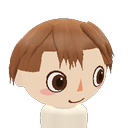
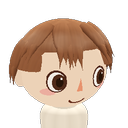
Raise character mesh density: 12,000 triangles on detail 1, 20,000 on high
- Head, hair shell and hair locks use more segments on detail 1 and 2; face
  decals are subdivided finer.
- Torso, sleeves, hands, legs and boots now scale with the detail level too
  (BODY_DETAIL 1.0 / 1.5 / 2.0, rounder edges, a smoothed torso outline);
  they were fixed low-poly before. Arm and leg mesh caches include the detail.
- Budgets (CLAUDE.md, face_check): 8,000 low / 12,000 detail 1 / 20,000 high.
  Worst hair style now 4,332 / 10,713 / 19,007. A frame with 9 characters on
  high draws about 124k triangles (was 74k), under the 200k on-screen limit.
- Hair icons re-rendered.

Claude-Session: https://claude.ai/code/session_01QyDHCQ6tC6bWgwVdAvtfcP

diff --git a/CLAUDE.md b/CLAUDE.md
@@ -5,7 +5,7 @@
 - 정적 타입 필수: 변수·인자·반환형 모두 명시 (`var hp: int`, `func f(a: float) -> void`). `:=`는 타입이 자명할 때만.
 - 타입 없는 `Variant`, 무분별한 `Dictionary`/`get_node` 문자열 경로 지양 → `@export`/`@onready var x: Type`, 데이터는 Resource 클래스.
 ## 3D 성능 (Mobile 렌더러, 60fps, 프레임 16.6ms, 기준 기기 갤럭시 S24 · Z 폴드7)
-- 폴리곤 예산: 캐릭터 ≤8,000tri(고화질 12,000), 나무 2,500, 집 4,000, 소형 소품 300, 가구 300/800/1,500, 방 합계 50k. 마을은 합계가 아니라 **화면 안** 기준 (그린 삼각형 ≤ 200k, `tools/art_preview.tscn -- --what=village --stats` 로 잰다).
+- 폴리곤 예산: 캐릭터 ≤8,000tri(중간 12,000 · 고화질 20,000 — 캐릭터 9명이 한 화면이어도 마을 포함 200k 안), 나무 2,500, 집 4,000, 소형 소품 300, 가구 300/800/1,500, 방 합계 50k. 마을은 합계가 아니라 **화면 안** 기준 (그린 삼각형 ≤ 200k, `tools/art_preview.tscn -- --what=village --stats` 로 잰다).
 - Tripo 모형(`tools/blender/import_tripo.py`)은 예외: 고화질은 원본 폴리곤 그대로(텍스처 + 임포트 자동 LOD), 절약 화질은 위 예산까지 줄인 `<id>_low.glb` 를 쓴다.
 - 반복 물체(풀·꽃·울타리·조약돌)는 반드시 `MultiMeshInstance3D` 이고, 마을 전체 한 덩어리가 아니라 12m 칸으로 나눠 visibility range 를 건다. 세트별 공용 아틀라스 머티리얼 1개, 투명 머티리얼은 화면 내 10개 이하(알파 블렌드 대신 알파 시저).
 - 노멀맵·블렌드셰이프·캐릭터 LOD 없음, 셰이더 8개 이하, 작은 소품은 visibility range 지정.
